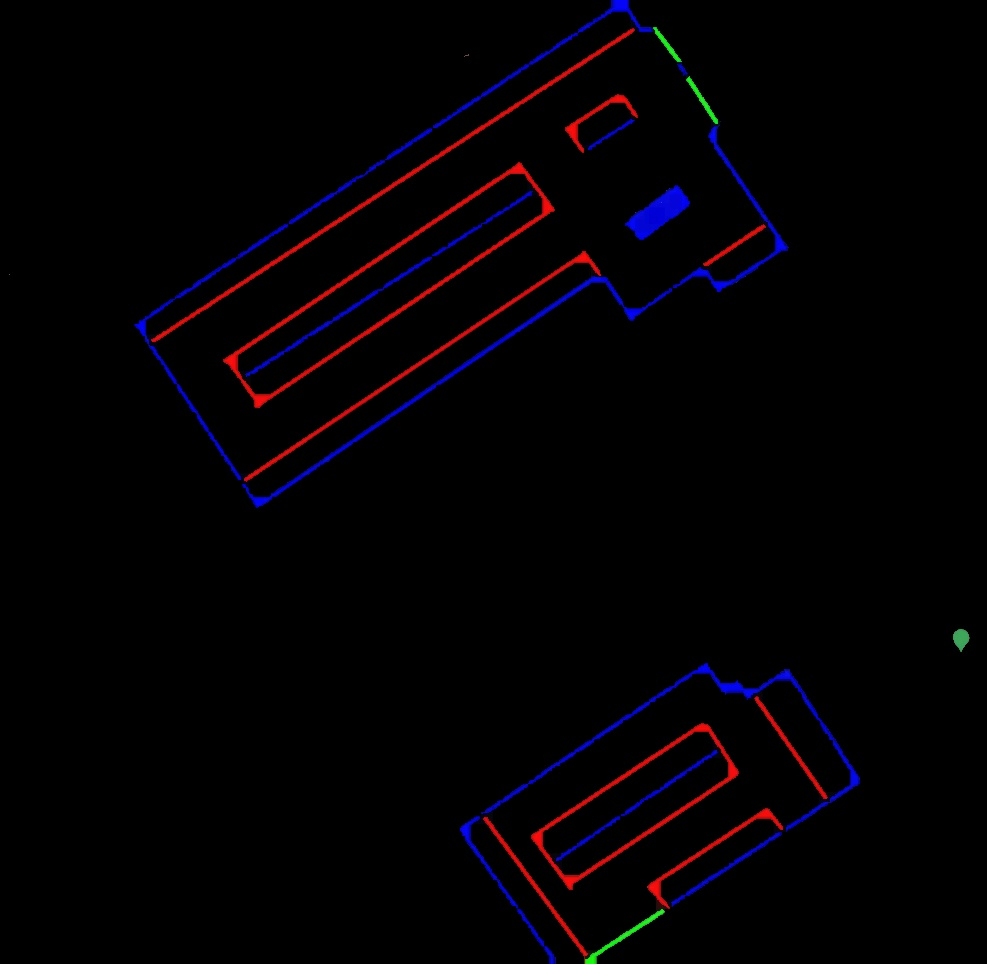
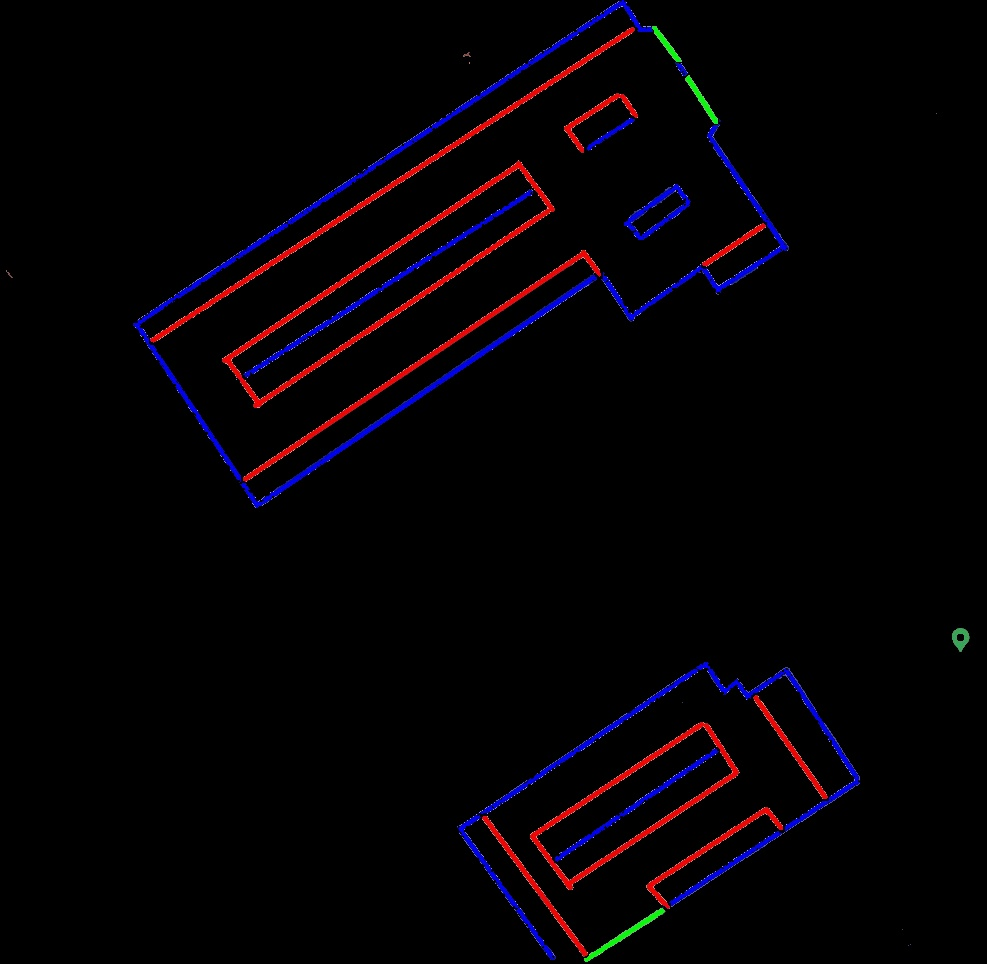
Determined coordinates for barriers

diff --git a/app.py b/app.py
@@ -29,18 +29,51 @@ class Display:
         self.screen.blit(self.background_image, [0, 0])
         self.snowplow = Snowplow(self.screen)
 
-    def parkinglot_barriers(self):
+    def parkinglot_barriers(self, loop_counter):
         # Convert windowSurface to cv2 Reference: https://stackoverflow.com/questions/19240422/display-cv2-videocapture-image-inside-pygame-surface
         view = pygame.surfarray.array3d(self.screen)
         # Convert from (width, height, channel) to (height, width, channel)
         view = view.transpose([1, 0, 2])
-        img_bgr = cv.cvtColor(view, cv.COLOR_RGB2BGR)
-        y_boundary, x_boundary = np.where(np.all(img_bgr != [0,   0, 0], axis=2))
-        # for i in x_boundary:
-        #     pygame.draw.circle(self.screen, [0,   0, 255], [x_boundary[i], y_boundary[i]], 1)
+        if loop_counter == 1:
+            img_hsv = cv.cvtColor(view, cv.COLOR_BGR2HSV)
+
+            # Define color ranges for masks
+            lower_green = np.array([50, 100, 100])
+            upper_green = np.array([70, 255, 255])
+            lower_blue = np.array([0, 100, 100])
+            upper_blue = np.array([10, 255, 255])
+            lower_red = np.array([110, 100, 100])
+            upper_red = np.array([130, 255, 255])
+
+            # create masks for boundary, parking spots, and entry
+            boundary_mask = cv.inRange(img_hsv, lower_blue, upper_blue)
+            parkingspot_mask = cv.inRange(img_hsv, lower_red, upper_red)
+            entry_mask = cv.inRange(img_hsv, lower_green, upper_green)
+
+            # Use mask to extract the area of interest
+            boundary_result = cv.bitwise_and(img_hsv, img_hsv, mask=boundary_mask)
+            parkingspot_result = cv.bitwise_and(img_hsv, img_hsv, mask=parkingspot_mask)
+            entry_result = cv.bitwise_and(img_hsv, img_hsv, mask=entry_mask)
+
+            kernel_erode = np.ones((2, 2), np.uint8)
+            kernel_close = np.ones((15, 15), np.uint8)
+
+            boundary_erode = cv.erode(boundary_result, np.ones((1, 1), np.uint8))
+            boundary_closing = cv.morphologyEx(boundary_erode, cv.MORPH_CLOSE, kernel_close)
+
+            parkingspot_erode = cv.erode(parkingspot_result, kernel_erode)
+            parkingspot_closing = cv.morphologyEx(parkingspot_erode, cv.MORPH_CLOSE, kernel_close)
+
+            entry_erode = cv.erode(entry_result, kernel_erode)
+            entry_closing = cv.morphologyEx(entry_erode, cv.MORPH_CLOSE, kernel_close)
+
+            y_boundary, x_boundary = np.where(np.all(boundary_closing != [0, 0, 0], axis=2))
+            y_parkingspot, x_parkingspot = np.where(np.all(parkingspot_closing != [0, 0, 0], axis=2))
+            y_entry, x_entry = np.where(np.all(entry_closing != [0, 0, 0], axis=2))
 
     def run(self):
         running = True
+        loop_counter = 1
         while running:
             for event in pygame.event.get():
                 if event.type == pygame.QUIT:
@@ -65,7 +98,8 @@ class Display:
                     self.screen.blit(self.background_image, [0, 0])
                     self.snowplow.place_snowplow(x_coor, y_coor)
 
-                self.parkinglot_barriers()
+                self.parkinglot_barriers(loop_counter)
+                loop_counter += 1
             pygame.display.flip()
 
 

diff --git a/process image.py b/process image.py
@@ -18,31 +18,23 @@ parkingSpot_mask = cv.inRange(parkingLot_hsv, lower_red, upper_red)
 entry_mask = cv.inRange(parkingLot_hsv, lower_green, upper_green)
 
 # Use mask to extract the area of interest
-boundary_result = cv.bitwise_and(parkingLot, parkingLot, mask=boundary_mask)
-parkingSpot_result = cv.bitwise_and(parkingLot, parkingLot, mask=parkingSpot_mask)
-entry_result = cv.bitwise_and(parkingLot, parkingLot, mask=entry_mask)
+boundary_result = cv.bitwise_and(parkingLot_hsv, parkingLot_hsv, mask=boundary_mask)
+parkingSpot_result = cv.bitwise_and(parkingLot_hsv, parkingLot_hsv, mask=parkingSpot_mask)
+entry_result = cv.bitwise_and(parkingLot_hsv, parkingLot_hsv, mask=entry_mask)
 
 # Combine results for boundary, parking spots and entry
 blend1 = cv.addWeighted(boundary_result, 1, parkingSpot_result, 1, 0)
 blend2 = cv.addWeighted(blend1, 1, entry_result, 1, 0)
 
-# Get X and Y coordinates of lines
-# x_boundary, y_boundary = np.where(np.all(boundary_result != [0, 0, 0], axis=2))
-# x_parkingSpot, y_parkingSpot = np.where(np.all(parkingSpot_result != [0, 0, 0], axis=2))
-# x_entry, y_entry = np.where(np.all(entry_result != [0, 0, 0], axis=2))
-# boundary_coordinates = np.column_stack((x_boundary, y_boundary))
-# parkingSpot_coordinates = np.column_stack((x_parkingSpot, y_parkingSpot))
-# entry_coordinates = np.column_stack((x_entry, y_entry))
-
 # Clean up final image before saving
-kernel_erode = np.ones((2, 2), np.uint8)
-kernel_close = np.ones((15, 15), np.uint8)
-erode = cv.erode(blend2, kernel_erode)
-closing = cv.morphologyEx(erode, cv.MORPH_CLOSE, kernel_close)
-
+# kernel_erode = np.ones((2, 2), np.uint8)
+# kernel_close = np.ones((15, 15), np.uint8)
+# erode = cv.erode(blend2, kernel_erode)
+# closing = cv.morphologyEx(erode, cv.MORPH_CLOSE, kernel_close)
 
 # Save final edited image
-cv.imwrite('Edited Parking Lot.jpg', closing)
+pic_RGB = cv.cvtColor(blend2, cv.COLOR_HSV2RGB)
+cv.imwrite('Edited Parking Lot.jpg', pic_RGB)
 
 # cv.imshow('Parking Lot', closing)
 # cv.waitKey(0)
